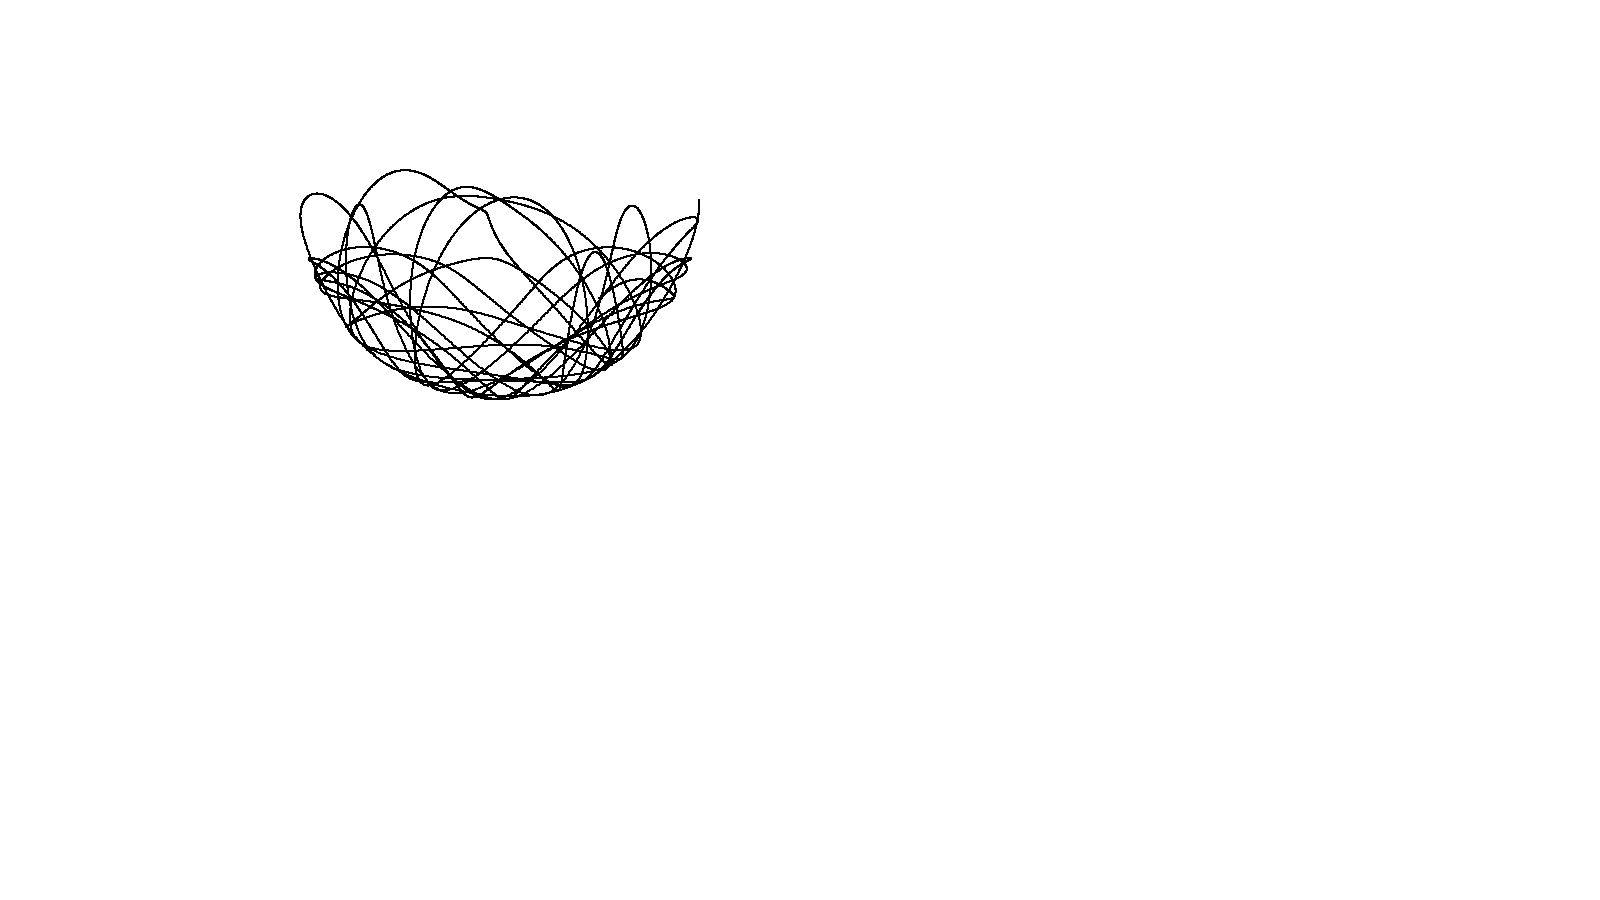
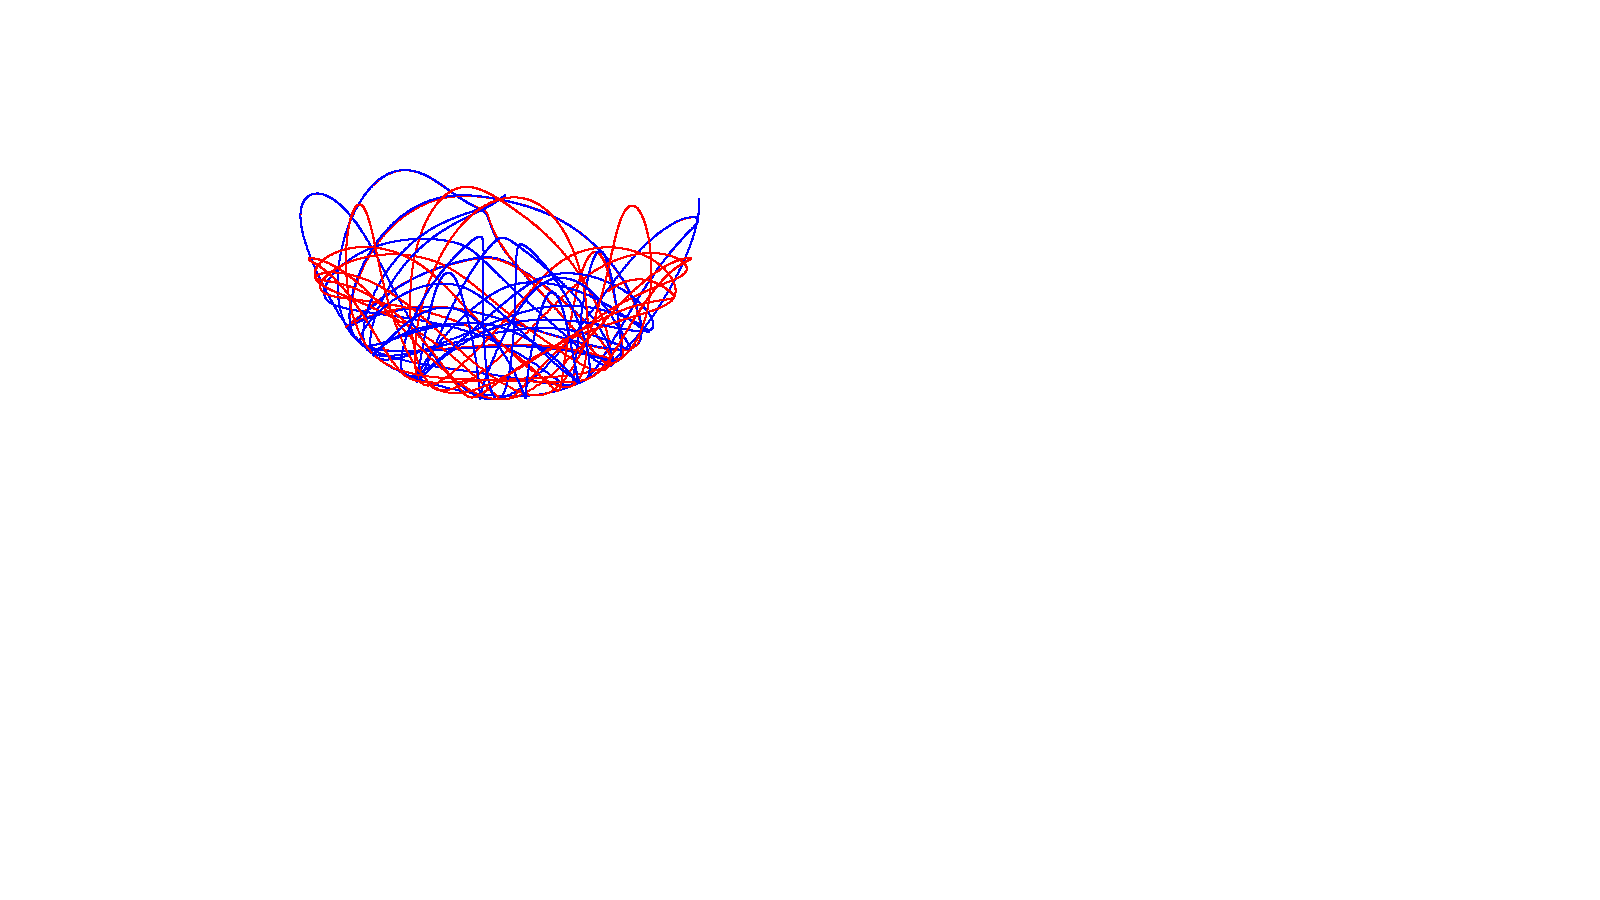
added a second pendulum to experimental.py

Changed region(s): [[0.1875, 0.1867, 0.4375, 0.4667]]

diff --git a/experimental.py b/experimental.py
@@ -49,6 +49,7 @@ button_save.text = 'save screen'
 floor.static = True
 screen2.fill(white)
 double_pendulum = pd.DoublePendulum((500, 200), 1.0, 1.5, 100, 100, math.radians(90),  math.radians(90))
+double_pendulum2 = pd.DoublePendulum((500, 200), 1.0, 1.5, 100, 100, math.radians(90.01),  math.radians(90))
 
 #ARRAYS
 object_arr = [kin.Circle(800, 100, 20, 1),kin.Circle(1200, 100, 20, 10), floor, kin.Rect(300, 100, 50, 50, 1)]
@@ -62,7 +63,10 @@ while True:
     start = tm.time()
 
     double_pendulum.update()
-    double_pendulum.draw_point(screen2, black)
+    double_pendulum2.update()
+    double_pendulum.draw_point(screen2, red)
+    double_pendulum2.draw_point(screen2, blue)
+    double_pendulum2.draw(screen, black)
     double_pendulum.draw(screen, black)
     # Drawing object array
 
